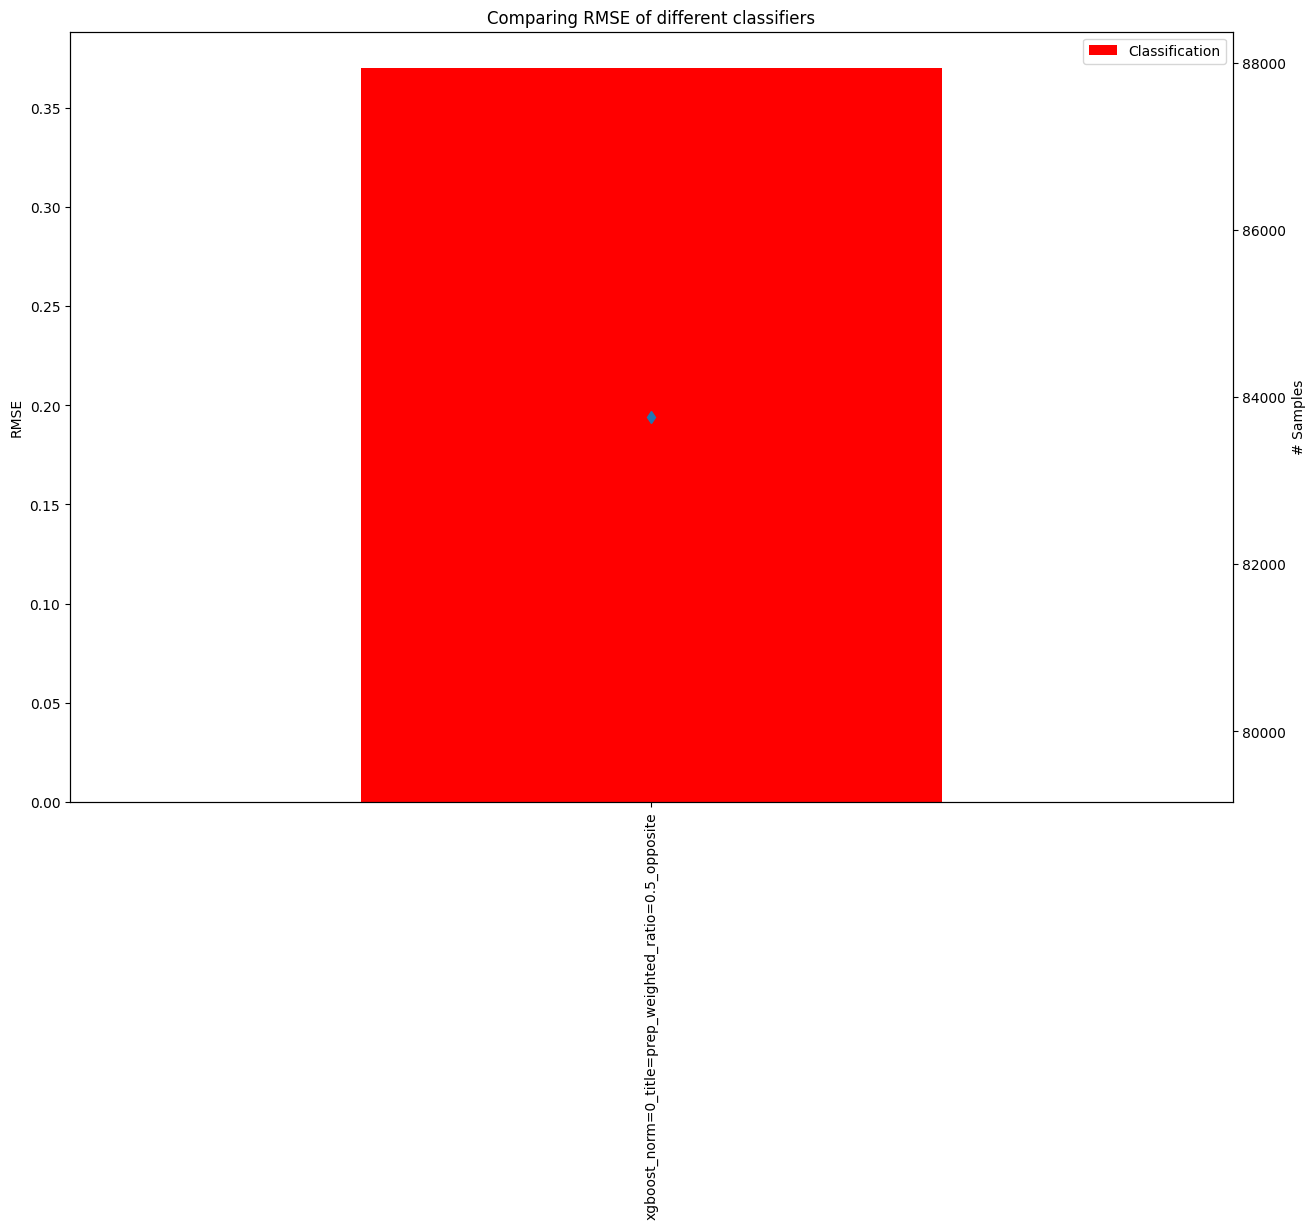
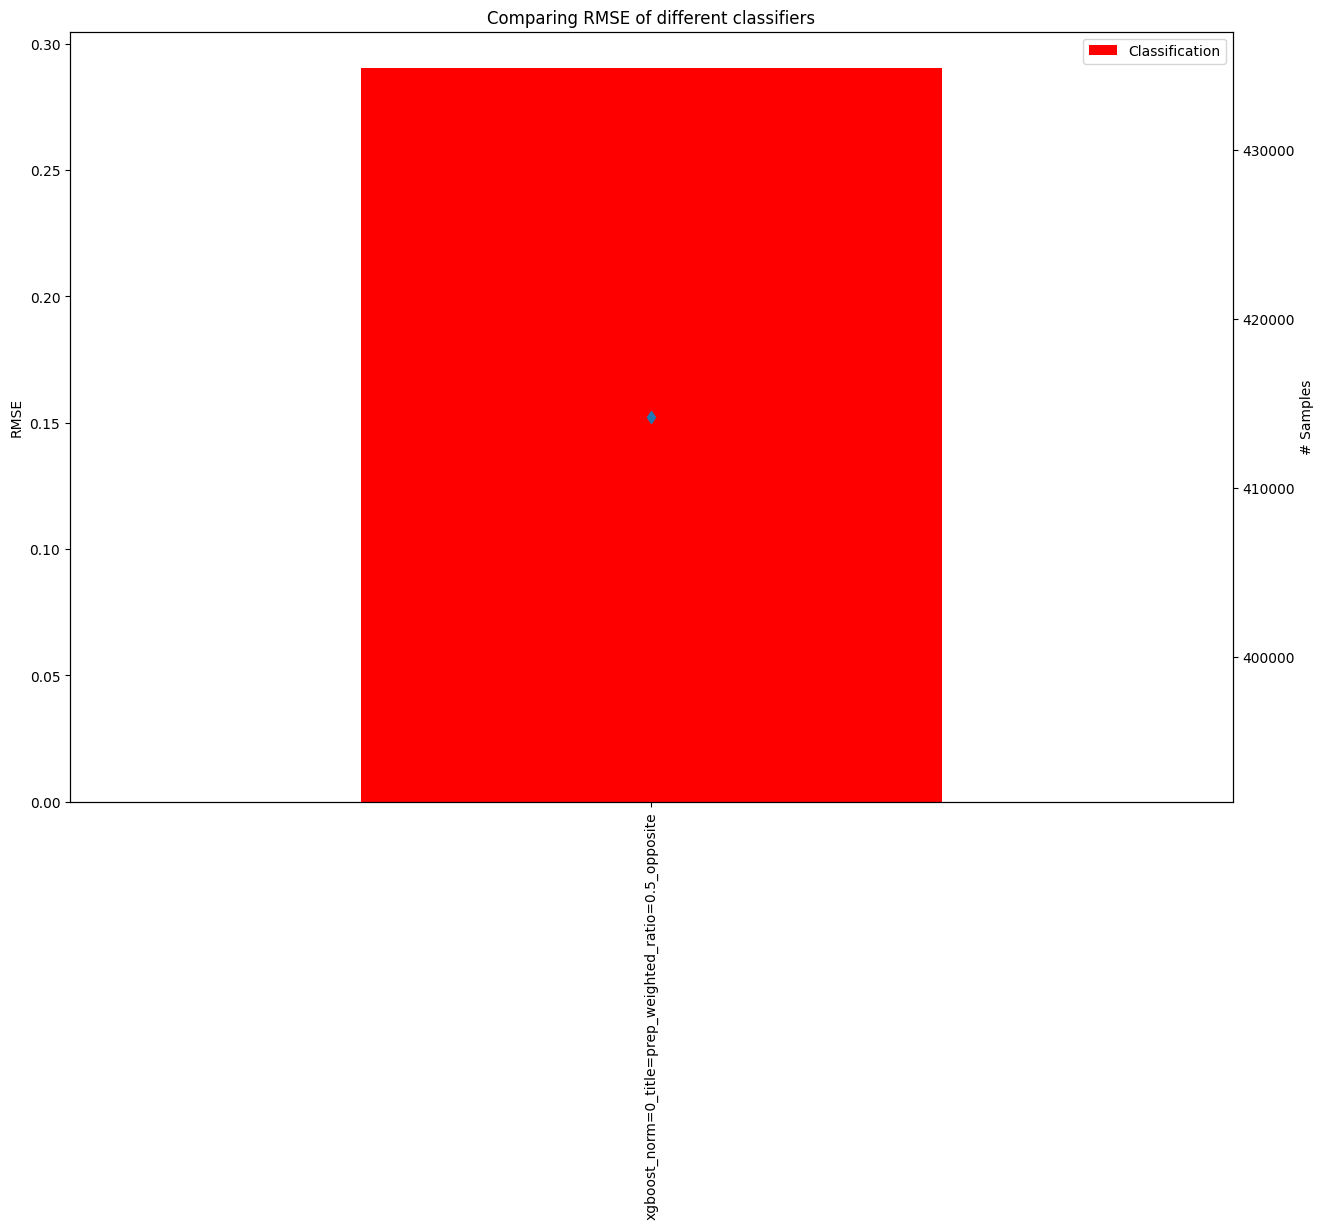
minor fixes

diff --git a/feature_analysis/feat_importance.py b/feature_analysis/feat_importance.py
@@ -31,15 +31,15 @@ params = {
     "norm_vals": [0,1,2],               # normalised: 0 = only "abs", 1 = only "norm", 2 = norm and abs
     "weighted_vals" : [True, False],     # weighted_vals: whether votes should be weighted by comment score FALSE IS BETTER 0.32
     "title_prep_vals" : [True, False],   # title_prepend: whether to use the title prepended or standalone dataset
-    "sampling_vals" : ["up", "down"],   # sampling_vals: which type of sampling should be done
+    "sampling_vals" : ["up", ], #"down"  # sampling_vals: which type of sampling should be done
     "topics_separate": False,           # if each topic should be analysed separately
-    "predict":"ratio",                  # should we predict "class" (classification for binary) or "ratio" (regression for AHR)
+    "predict":"class",                  # should we predict "class" (classification for binary) or "ratio" (regression for AHR)
     "mapping_type":[  "opposite", "clip"], # should we "clip" negative votes or map them to the "opposite"
     "ratio": [0.5,0.3,0.1  ],      # which most extreme AHR or YTA_ratio we want to predict 0.3, 0.2, 0.1, 0.05
     "wo_metadata": False #wheter we should include metadata columns (e.g. post_score, account_karam, link_karma) set MANUALLY
 }
 
-FORCE_SIMPLIFY = True
+FORCE_SIMPLIFY = False
 DO_SHAPLY = True
 SHOW_PREDICTION_DISTRIBUTION = False
 FEAT_IMPORTANCE_N = 50
@@ -291,6 +291,10 @@ def get_data_classes(df, acros, ratio=0.5, verbose=False, predict="class", judge
         tmp = (df[acros["yta"]]+df[acros["esh"]])/tmp
         df["Y"] = tmp
         
+        #sanity check
+        df["Y"] = np.random.randint(0, 1001, size=len(tmp))/1000
+        print("RANDOM Y")
+        
         if verbose:
            print(f"Removed {n_rows_old-len(df)} rows b.c. no votes. Now {df.shape}")
         n_rows_old = len(df)
@@ -347,7 +351,7 @@ def main(args):
 
     # mpc = MLPClassifier( random_state=1) seems pretty shitty
     # boost = GradientBoostingClassifier(n_estimators=300, learning_rate=1.0,max_depth=20, random_state=0)
-    xgboost = xgb.XGBClassifier(verbosity = 0) if params["predict"] == "class" else xgb.XGBRegressor(verbosity = 0)
+    xgboost = xgb.XGBClassifier(verbosity = 0, random_state=42,tree_method='gpu_hist') if params["predict"] == "class" else xgb.XGBRegressor(verbosity = 0, random_state=42,tree_method='gpu_hist')
     rfc = RandomForestClassifier(n_estimators= 766, min_samples_split= 2, min_samples_leaf= 1, max_features="auto", max_depth= 40, bootstrap= False, n_jobs=-1) if params["predict"] == "class" else RandomForestRegressor(n_estimators= 766, min_samples_split= 2, min_samples_leaf= 1, max_features="auto", max_depth= 40, bootstrap= False, n_jobs=-1)
 
     #classifiers = [(boost,"boost"), (xgboost,"xgboost"), (rfc,"rfc")]
@@ -415,6 +419,7 @@ def main(args):
                                     clf_name += "_weighted" if weighted else ""
                                     clf_name += "_ratio="+str(rto)
                                     clf_name += "_"+mpt
+                                    clf_name += "_"+mpt
 
                                     clf_name += "_topic_"+str(df["topic_nr"].iloc[0]) if params["topics_separate"] else ""                      
                                     clf_name += "_wometadata" if params["wo_metadata"] else ""
@@ -450,9 +455,14 @@ def main(args):
                                         shap_importance = pd.DataFrame(list(zip(feature_names, vals)), columns=['col_name', 'feature_importance_vals'])
                                         shap_importance.sort_values(by=['feature_importance_vals'], ascending=False, inplace=True)
                                         
-                                        name_importance_zip = list(zip(
-                                            shap_importance["col_name"][:FEAT_IMPORTANCE_N],
-                                            shap_importance["feature_importance_vals"][:FEAT_IMPORTANCE_N]))+["RMSE ="+ str(metrics.mean_squared_error(y_test, y_pred, squared=False))]
+                                        to_zip_1 = shap_importance["col_name"][:FEAT_IMPORTANCE_N],
+                                        to_zip_2 = shap_importance["feature_importance_vals"][:FEAT_IMPORTANCE_N]
+                                        if params["predict"] == "ratio":
+                                            to_zip_2 = to_zip_2+["RMSE ="+ str(metrics.mean_squared_error(y_test, y_pred, squared=False))]
+                                        else:
+                                            
+                                            to_zip_2 = to_zip_2+["RMSE ="+ str(metrics.f1_score(y_test, y_pred, average="weighted"))]                                                                                        
+                                        name_importance_zip = list(zip(to_zip_1, to_zip_2))
                                         
                                         top_n_features[clf_name] = name_importance_zip
                                 
@@ -517,8 +527,9 @@ def main(args):
     fig, ax1 = plt.subplots(figsize=(15, 10))
     df_plt['samples'].plot(kind='line', marker='d', secondary_y=True, ylabel="# Samples").set_ylabel("# Samples")
     df_plt['scores'].plot(kind='bar', color='r', ylabel="F1 score" if params["predict"]=="class" else "RMSE").set_xticklabels(classifiers) 
-    if len(class_ratio)>0:
-        df_plt['class_ratio'].plot(kind='bar', color='orange')
+    
+    #if len(class_ratio)>0:
+    #    df_plt['class_ratio'].plot(kind='bar', color='orange')
     plt.xlabel("Classifiers")
     ax1.legend(["Classification", "Class Ratios"])
 
